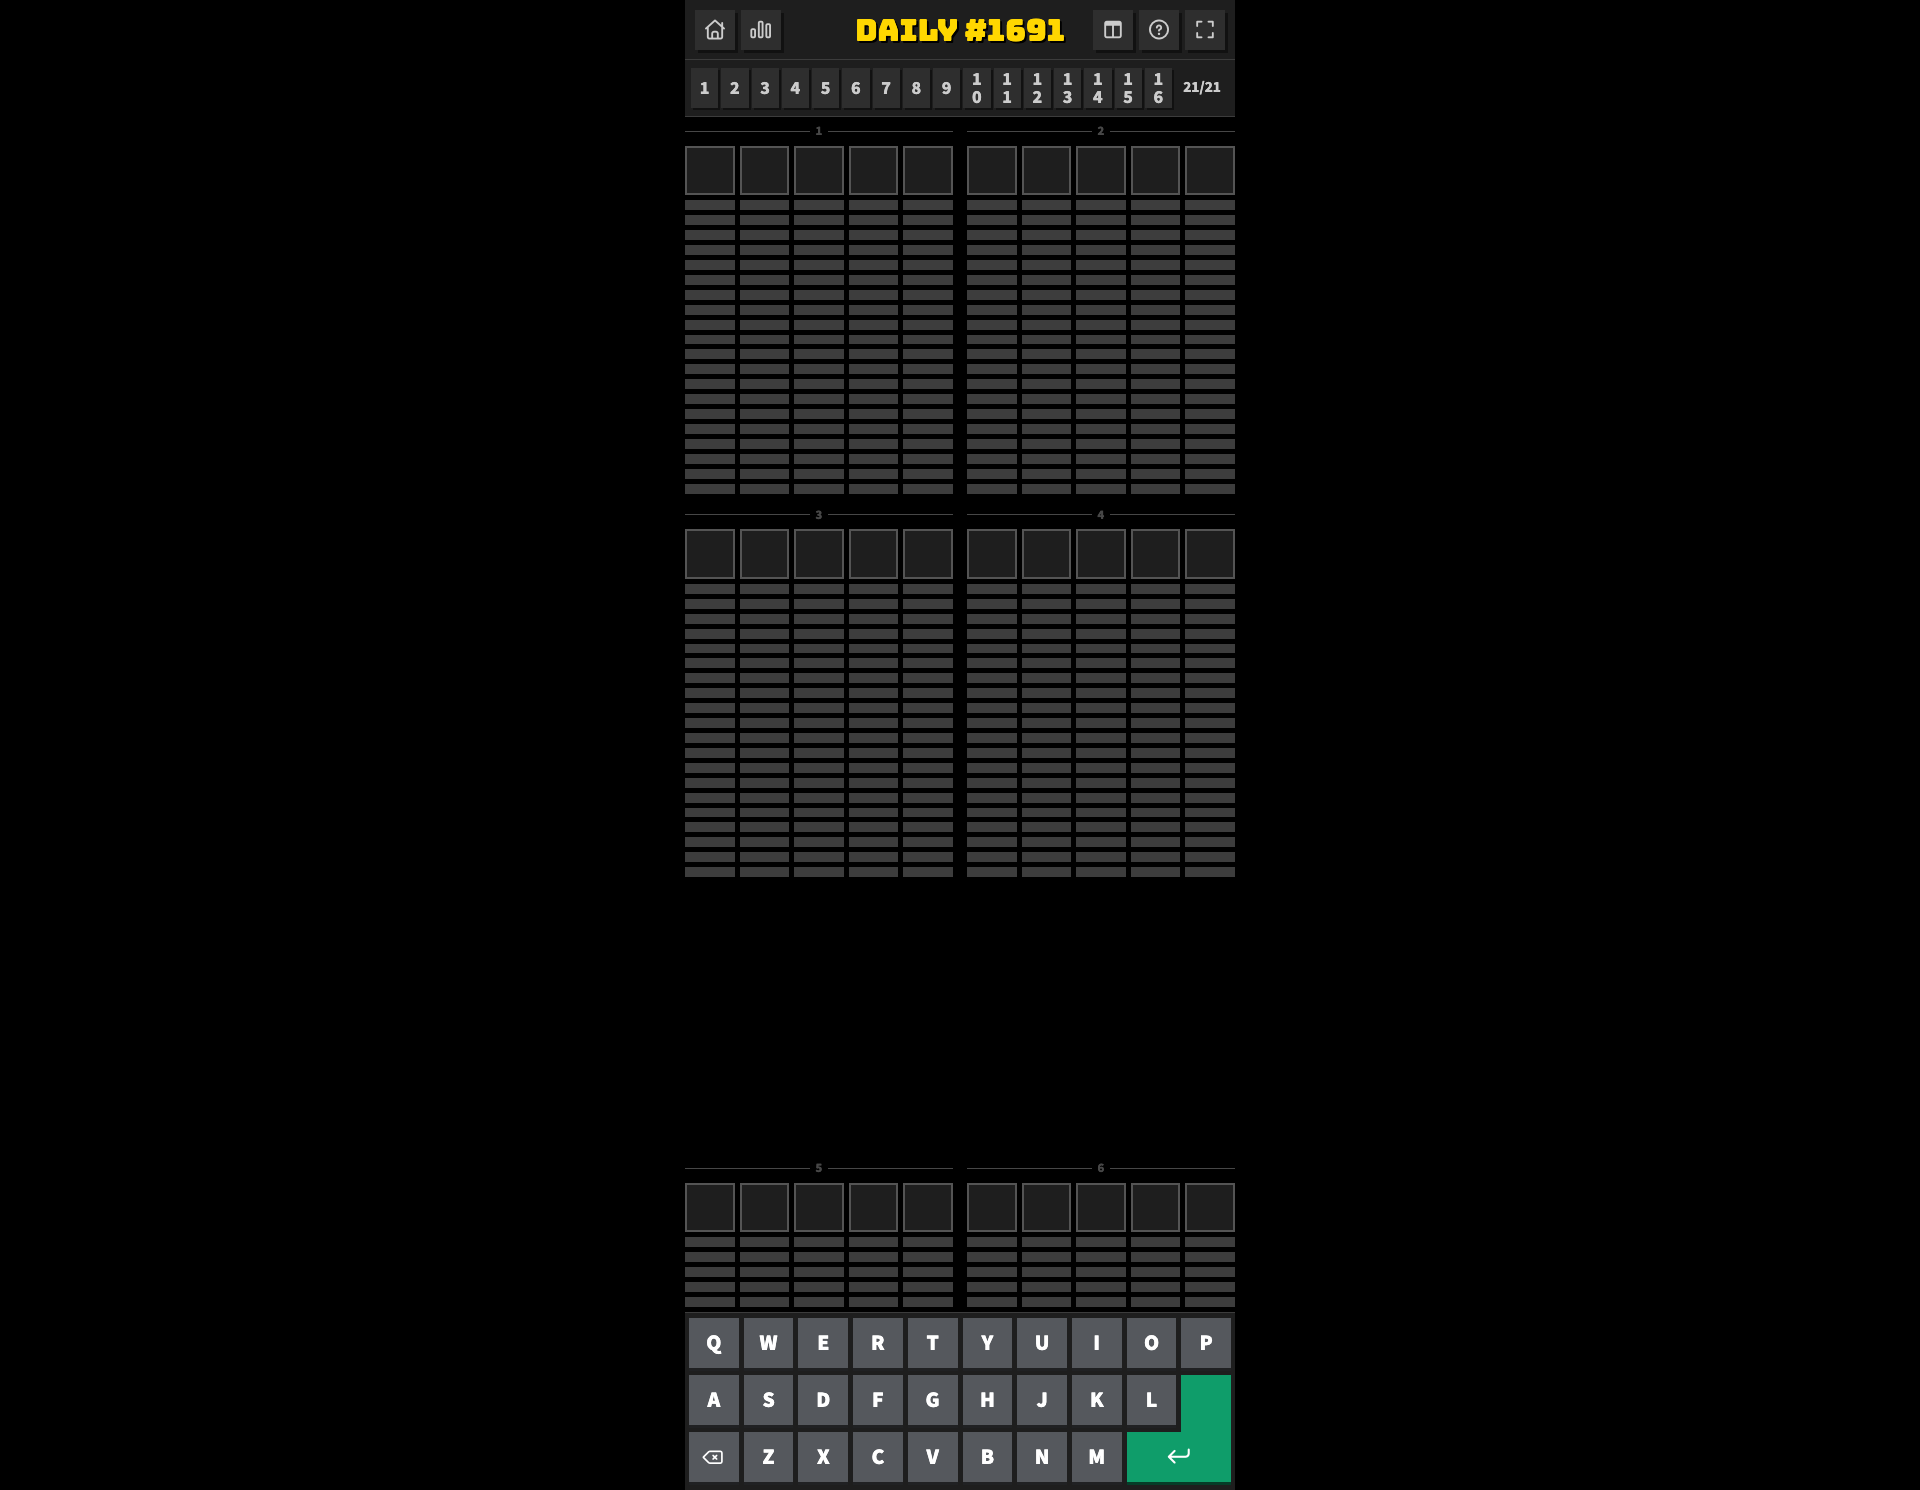
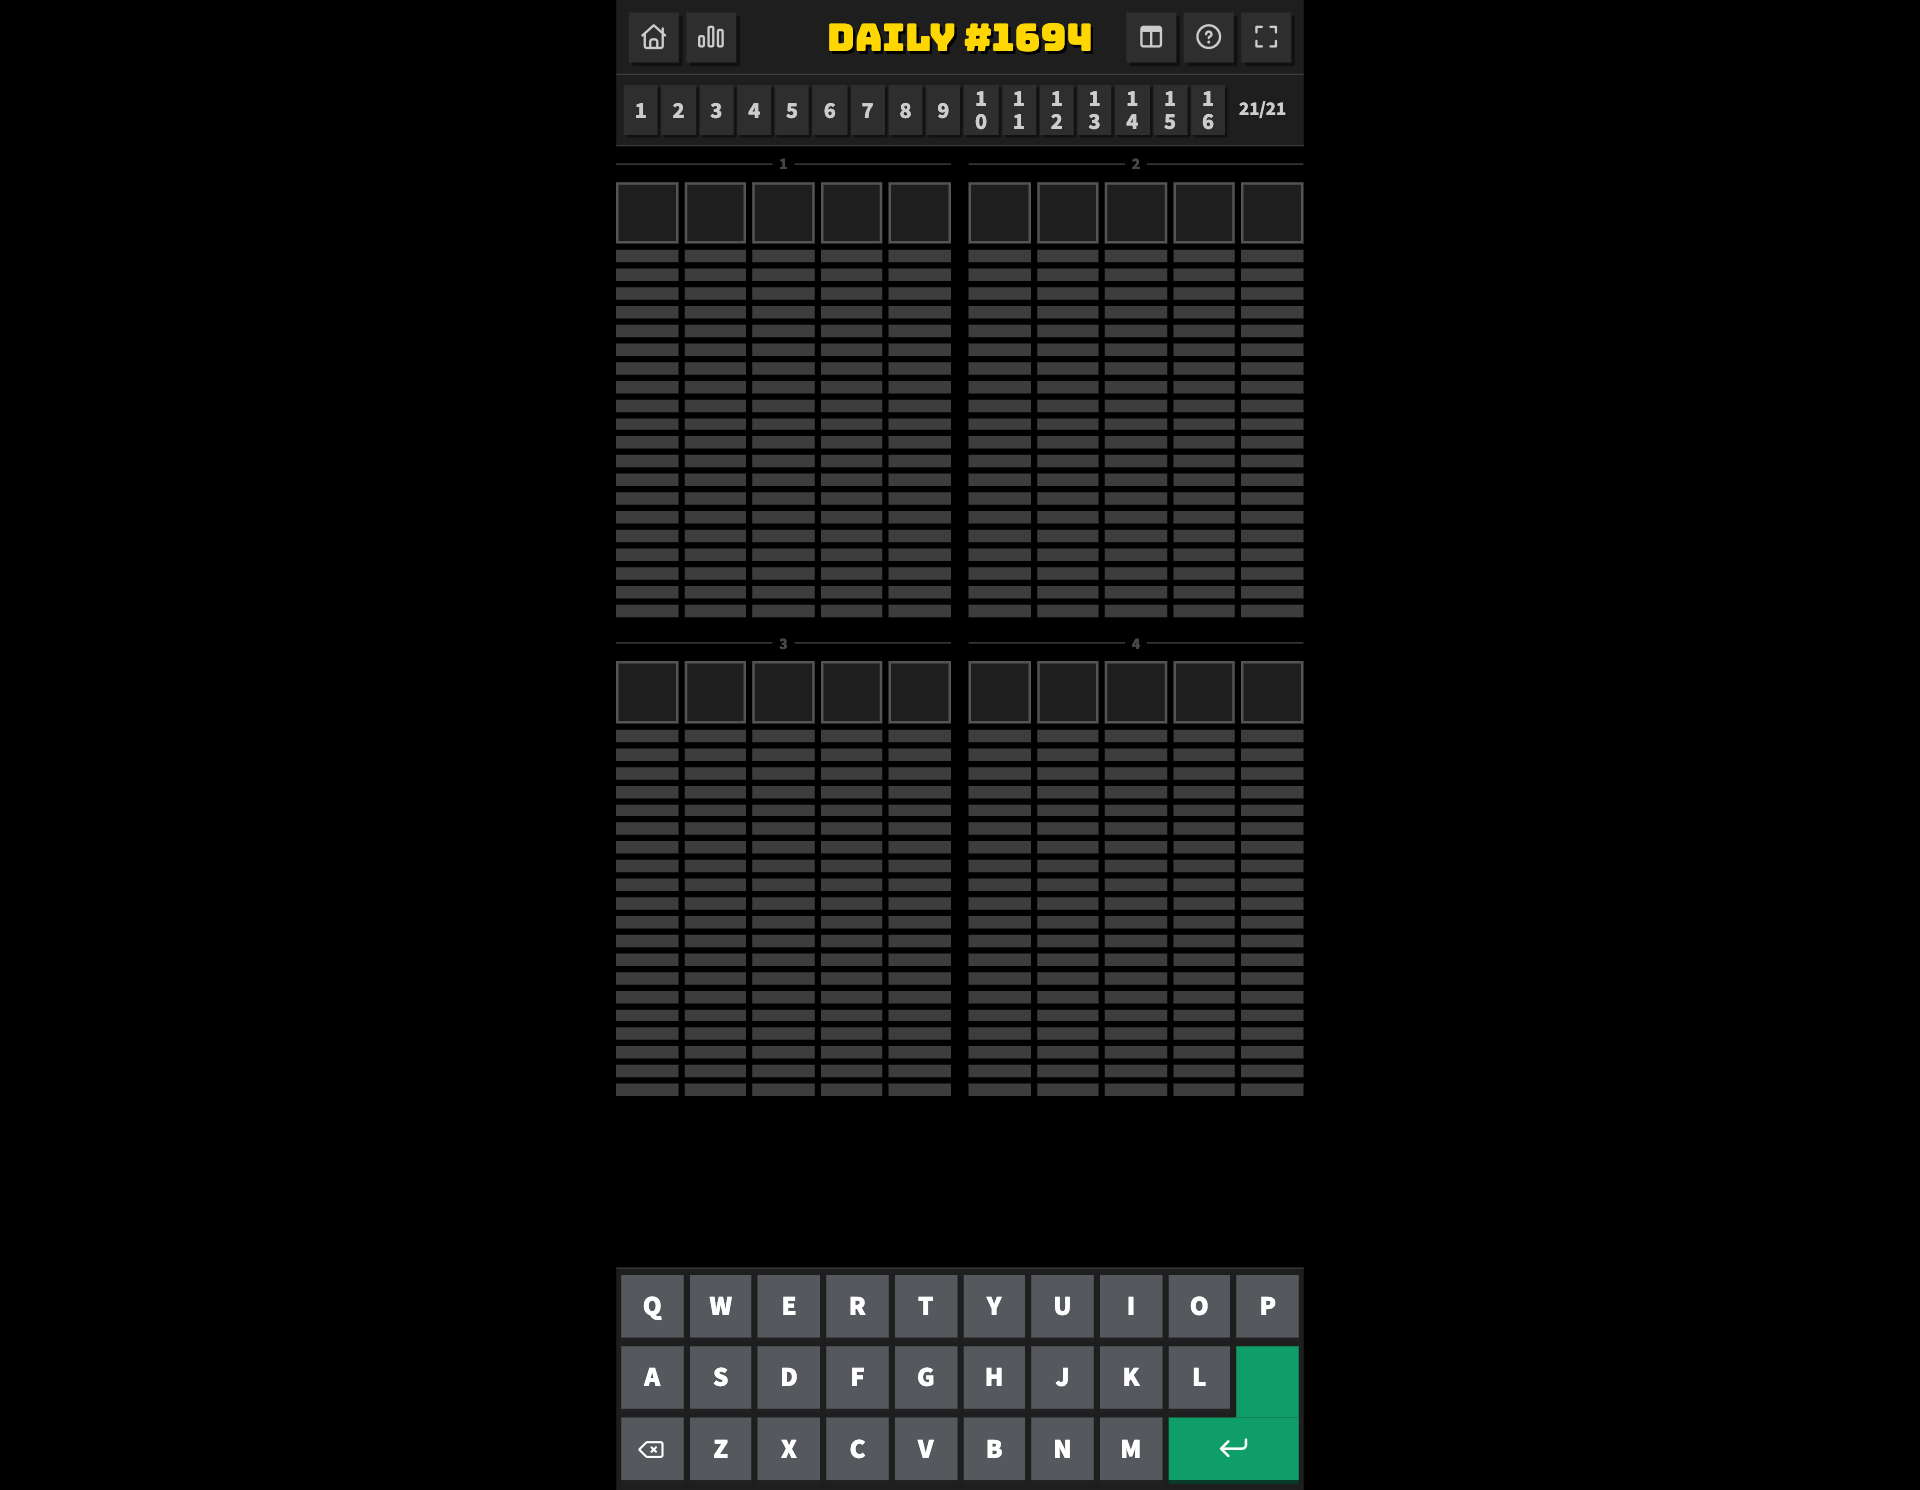
web_shots: multi-Wordle board pages captured at 1.25x page zoom (ZOOM_MULTI), recaptured for scene 16

Changed region(s): [[0.3125, 0.0, 0.6875, 0.7409], [0.3125, 0.7718, 0.6875, 1.0]]

diff --git a/animations/assets/web_shots.py b/animations/assets/web_shots.py
@@ -73,22 +73,25 @@ def _block_ads(route):
 # the PNG is still 1920 wide but the site's text column fills more of it
 ZOOM_80K = 1.5
 LIGHT_80K = {"scheme": "light", "zoom": ZOOM_80K}
+# the multi-Wordle board pages (scene 16) are zoomed the same way, so the boards
+# fill more of the small windows in the 3x2 variants grid
+ZOOM_MULTI = {"zoom": 1.25}
 
 GAMES = {
     # the itch.io page, as a browser shows it; the game is an iframe inside it.
     # (Loaded on its own, the iframe draws in the top-left of a blank white page.)
     "dordle":       ("https://zaratustra.itch.io/dordle",
-                     [("frame", "itch.zone"), ("text", "daily")]),
+                     [("frame", "itch.zone"), ("text", "daily")], ZOOM_MULTI),
     # Play is a link to #/classic, and its click is intercepted, so load the route directly
-    "quordle":      ("https://www.merriam-webster.com/games/quordle/#/classic", []),
+    "quordle":      ("https://www.merriam-webster.com/games/quordle/#/classic", [], ZOOM_MULTI),
     "octordle":     ("https://www.britannica.com/games/octordle",
-                     [("text", "Play")]),
+                     [("text", "Play")], ZOOM_MULTI),
     "sedecordle":   ("https://www.sedecordle.com/",
-                     [("text", "Daily game")]),
+                     [("text", "Daily game")], ZOOM_MULTI),
     "duotrigordle": ("https://duotrigordle.com/",
-                     [("text", "Daily Duotrigordle")]),
+                     [("text", "Daily Duotrigordle")], ZOOM_MULTI),
     "sexaginta":    ("https://sexaginta-quattuordle.pages.dev/",
-                     [("text", "daily")]),
+                     [("text", "daily")], ZOOM_MULTI),
     # the sponsor read (80,000 Hours): plain pages, no clicks, LIGHT scheme -- the
     # site as a visitor normally sees it
     "80k_doctor":   ("https://80000hours.org/articles/how-many-lives-does-a-doctor-save-part-1/",
